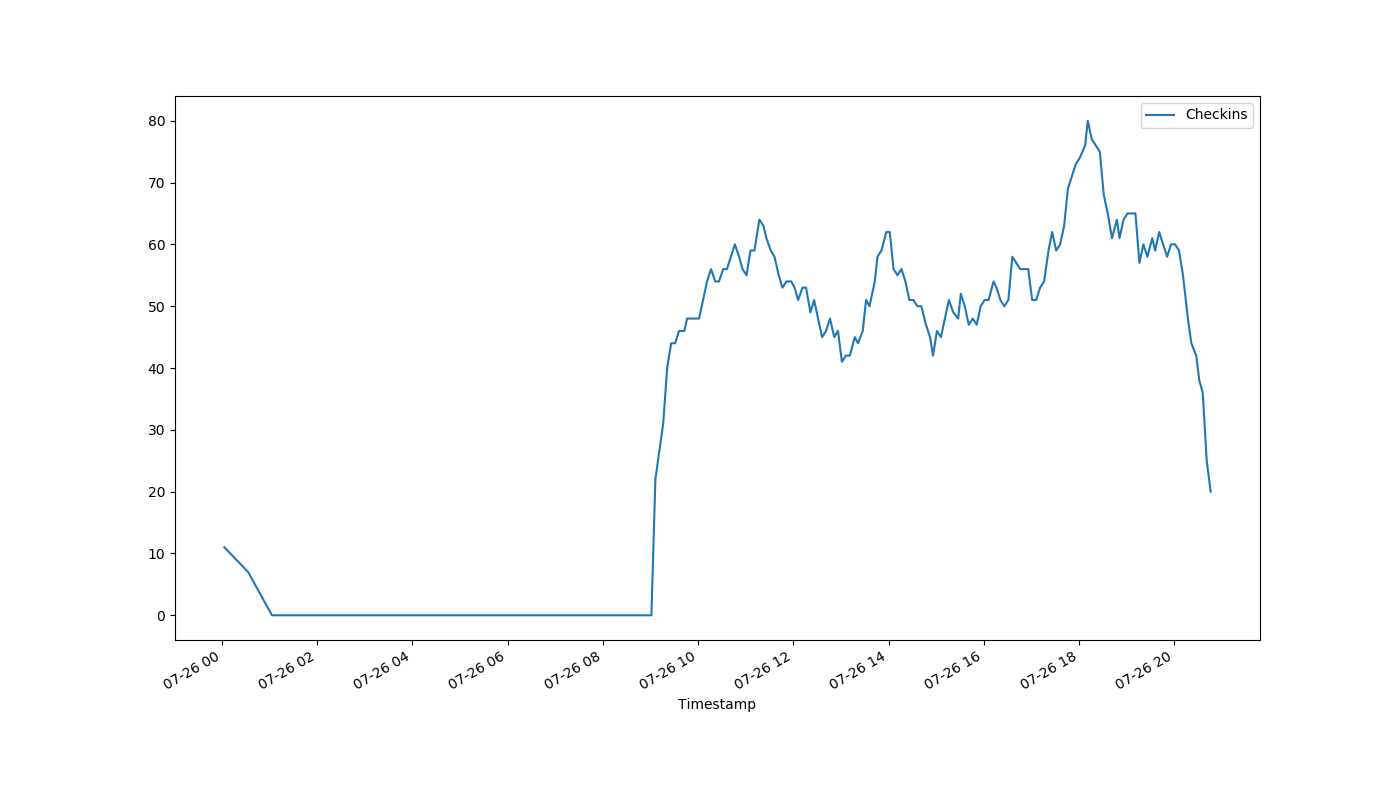
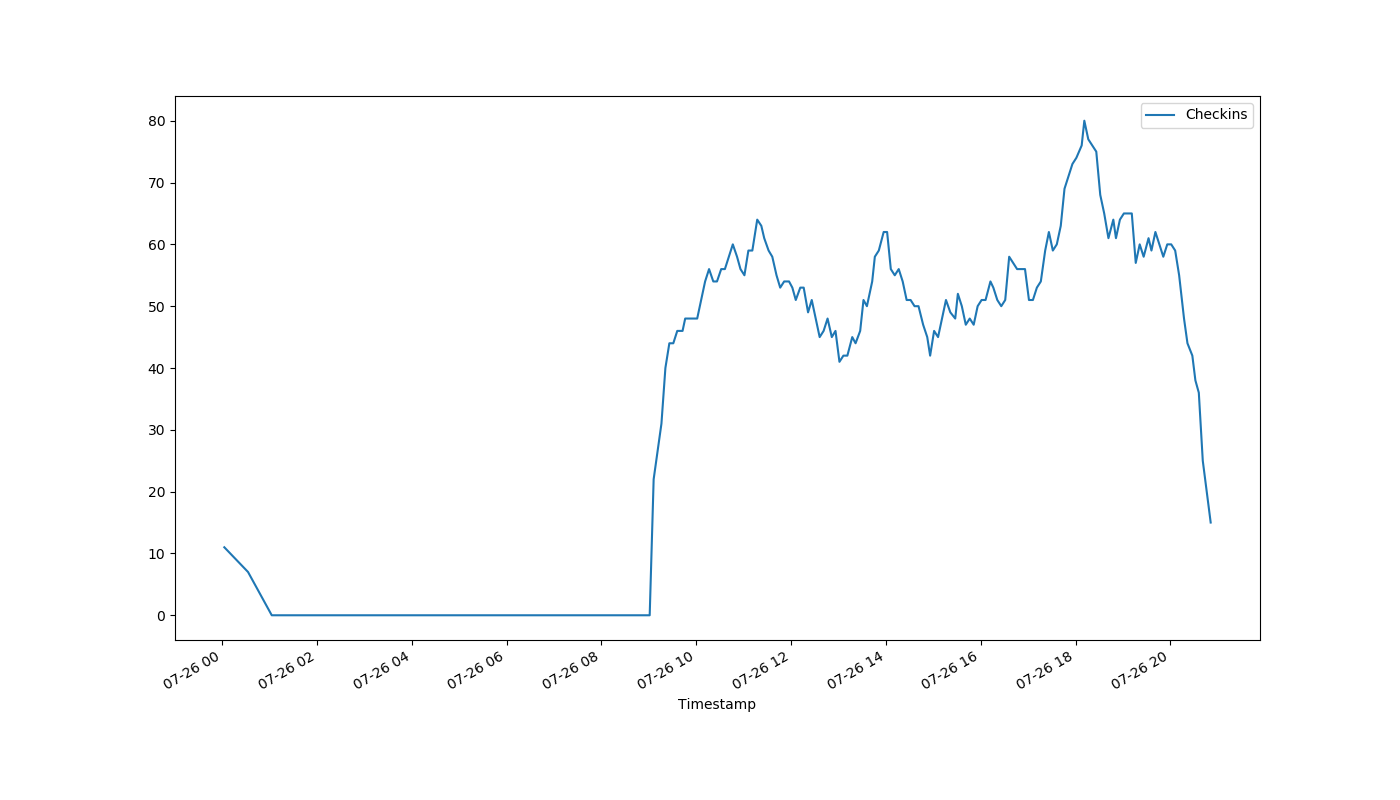
auto-Jul-26-20:52:38

diff --git a/index.html b/index.html
@@ -1,1 +1,1 @@
-<!DOCTYPE html><html><head><meta http-equiv="refresh" content="30"><link rel='stylesheet' href='holmcurrent.css'></head><body><p id='count'>20</p><div id='graph-wrap'><img id='graph' src='holmgraph-Jul-26.png'></div><p id='updated'>Last updated 20:47:01 / 20:46:01</p></body></html>
+<!DOCTYPE html><html><head><meta http-equiv="refresh" content="30"><link rel='stylesheet' href='holmcurrent.css'></head><body><p id='count'>15</p><div id='graph-wrap'><img id='graph' src='holmgraph-Jul-26.png'></div><p id='updated'>Last updated 20:52:01 / 20:51:01</p></body></html>
